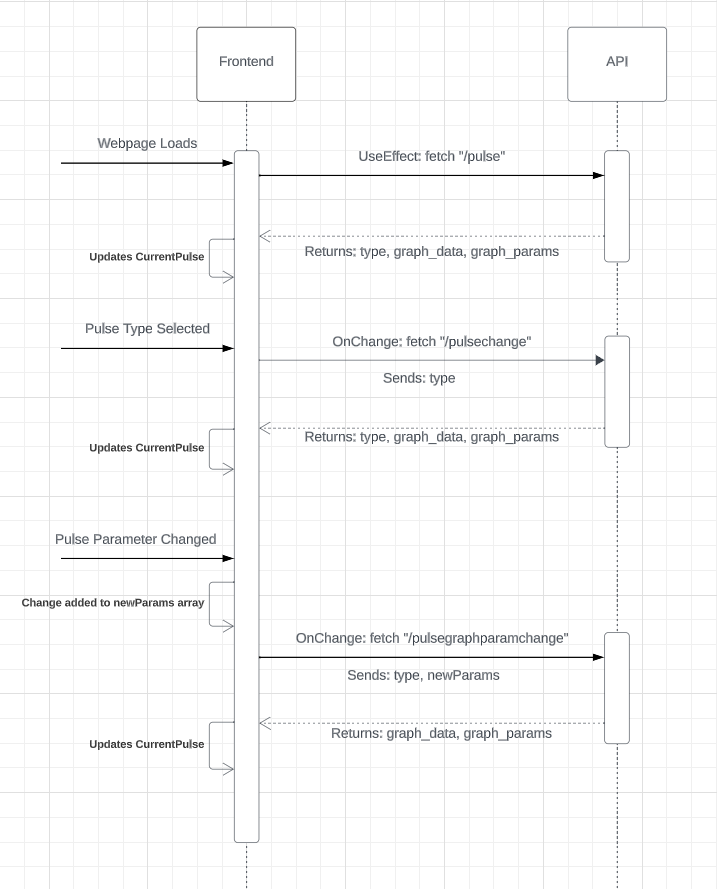
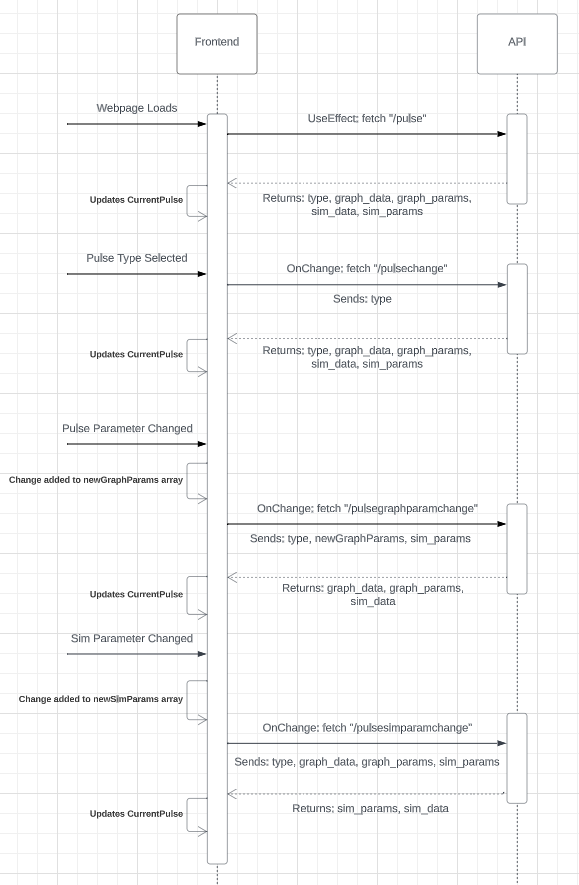
UML updated

diff --git a/client/src/pages/SimPage/SimPage.js b/client/src/pages/SimPage/SimPage.js
@@ -79,7 +79,7 @@ function SimPage() {
     
     // Updates graph values based on new parameters
     let handleGraphParamChange = (event) => {
-        const newParams = (currentPulse.graph_params).map(param => {
+        const newGraphParams = (currentPulse.graph_params).map(param => {
             if (param.name == event.target.name) {
                 return {
                     ...param,
@@ -99,7 +99,7 @@ function SimPage() {
             },
             body:JSON.stringify({
                 type: currentPulse.type,
-                graph_params: JSON.stringify(newParams),
+                graph_params: JSON.stringify(newGraphParams),
                 sim_params: JSON.stringify(currentPulse.sim_params)
             })
         })
@@ -124,7 +124,7 @@ function SimPage() {
 
     // Updates graph values based on new parameters
     let handleSimParamChange = (event) => {
-        const newParams = (currentPulse.sim_params).map(param => {
+        const newSimParams = (currentPulse.sim_params).map(param => {
             if (param.name == event.target.name) {
                 return {
                     ...param,
@@ -146,7 +146,7 @@ function SimPage() {
                 type: currentPulse.type,
                 graph_data: currentPulse.graph_data,
                 graph_params: JSON.stringify(currentPulse.graph_params),
-                sim_params: JSON.stringify(newParams)
+                sim_params: JSON.stringify(newSimParams)
             })
         })
         .then(res => res.json())
